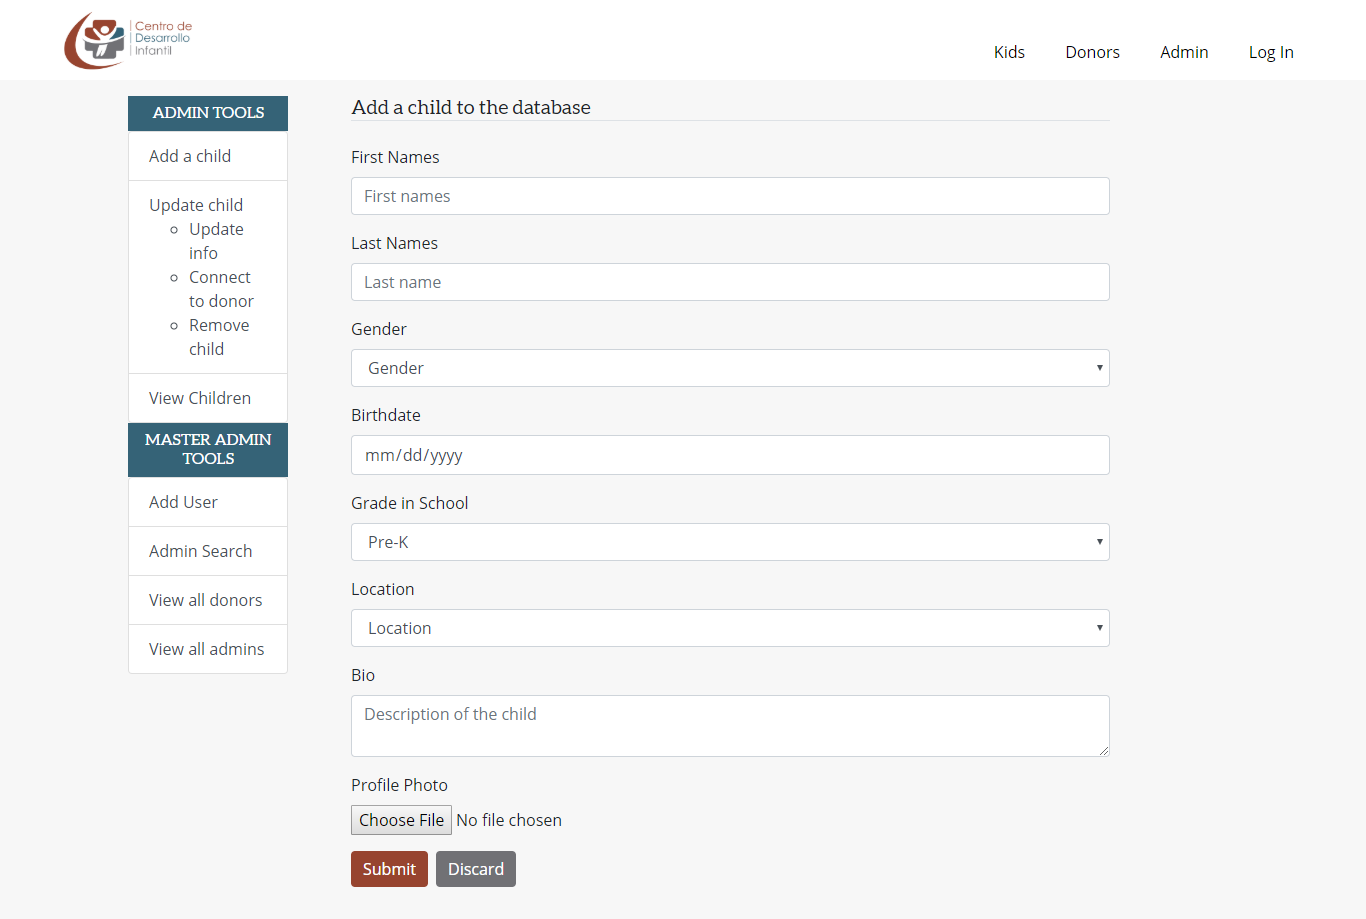
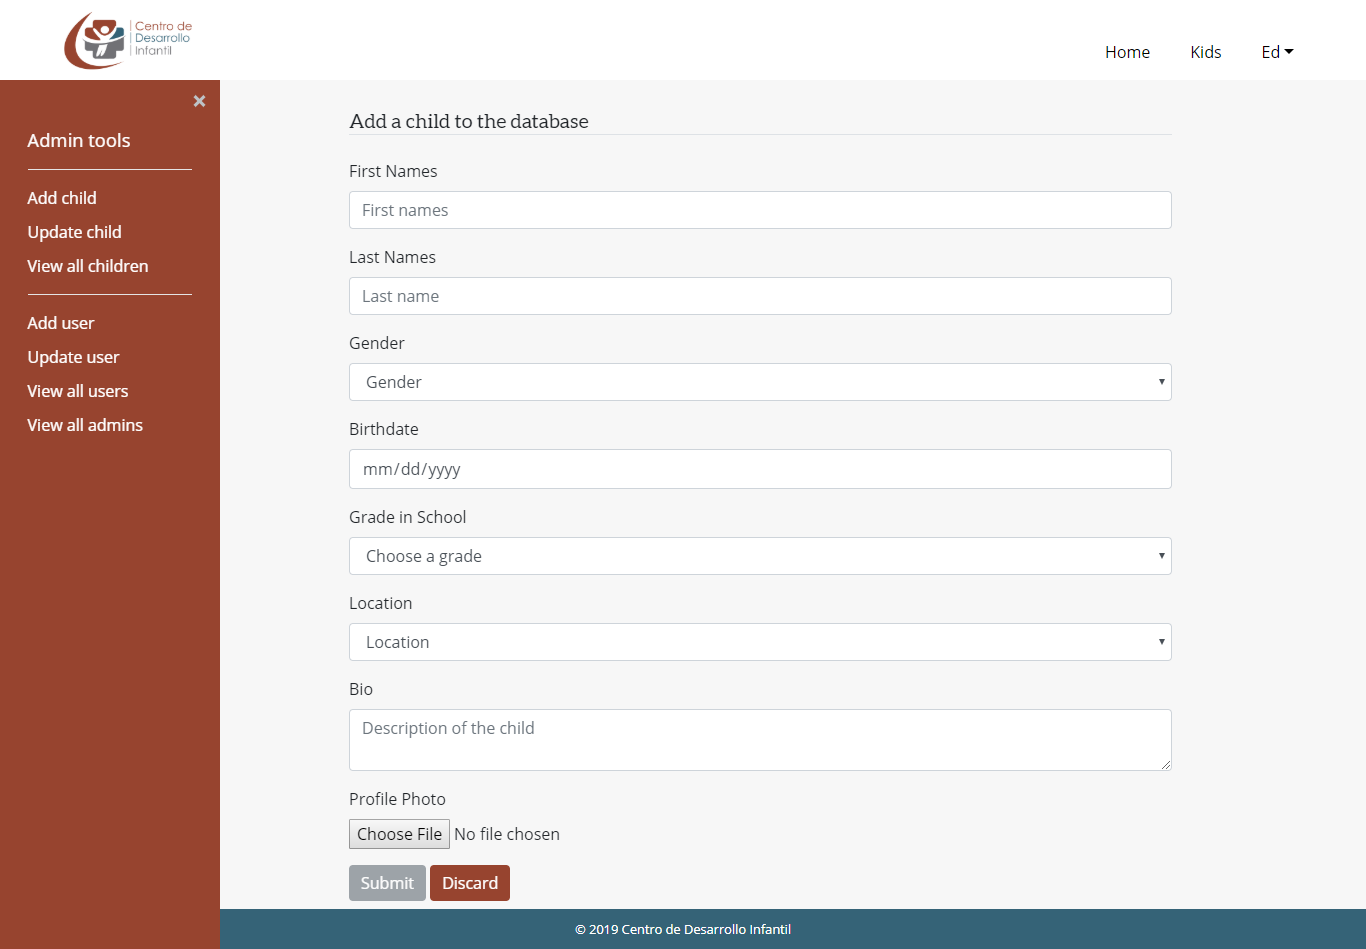
Updated ReadMe photos

diff --git a/client/src/pages/Admin.js b/client/src/pages/Admin.js
@@ -27,7 +27,7 @@ class Admin extends Component {
         displayTool: "",
         showKidSearchResults: false,
         showUserSearchResults: false,
-        menuOpen: true,
+        menuOpen: false,
 
         // Message & loading
         message: "Choose an admin tool to get started.",
@@ -372,7 +372,7 @@ class Admin extends Component {
                 <div id="page-wrap">
                 <MainContainer id="admin-container">
                     <Row className="mt-0">
-                        <Col xs="12" sm="8" md={{ size: 9, offset: 1 }} className="px-3" id="addKid">
+                        <Col xs="12" sm="8" md={{ size: 9 }} className="px-3" id="addKid">
                             {/* Shows loading spinner if loading is true */}
                             {this.state.loading ? (
                                 <LoadSpinner className="kidsSpin" />

diff --git a/client/src/pages/Home.js b/client/src/pages/Home.js
@@ -25,7 +25,10 @@ class Home extends Component {
                     loading: false
                 })
             })
-            .catch(err => console.log(err))
+            .catch(err => {
+                console.log(err);
+                this.setState({ loading: false })
+            })
     }
 
     // Function to calculate age using the birthdate in the database

diff --git a/client/src/SecuredAdminRoute/SecuredAdminRoute.js b/client/src/SecuredAdminRoute/SecuredAdminRoute.js
@@ -12,7 +12,7 @@ function SecuredAdminRoute(props) {
                 return <div></div>;
             }
             if (admin !== true) {
-                return<h4 className="text-center mt-4">You do not have admin privileges.</h4>
+                return<h4 className="text-center mt-4"></h4>
             } else {
             return <Component />
             }
